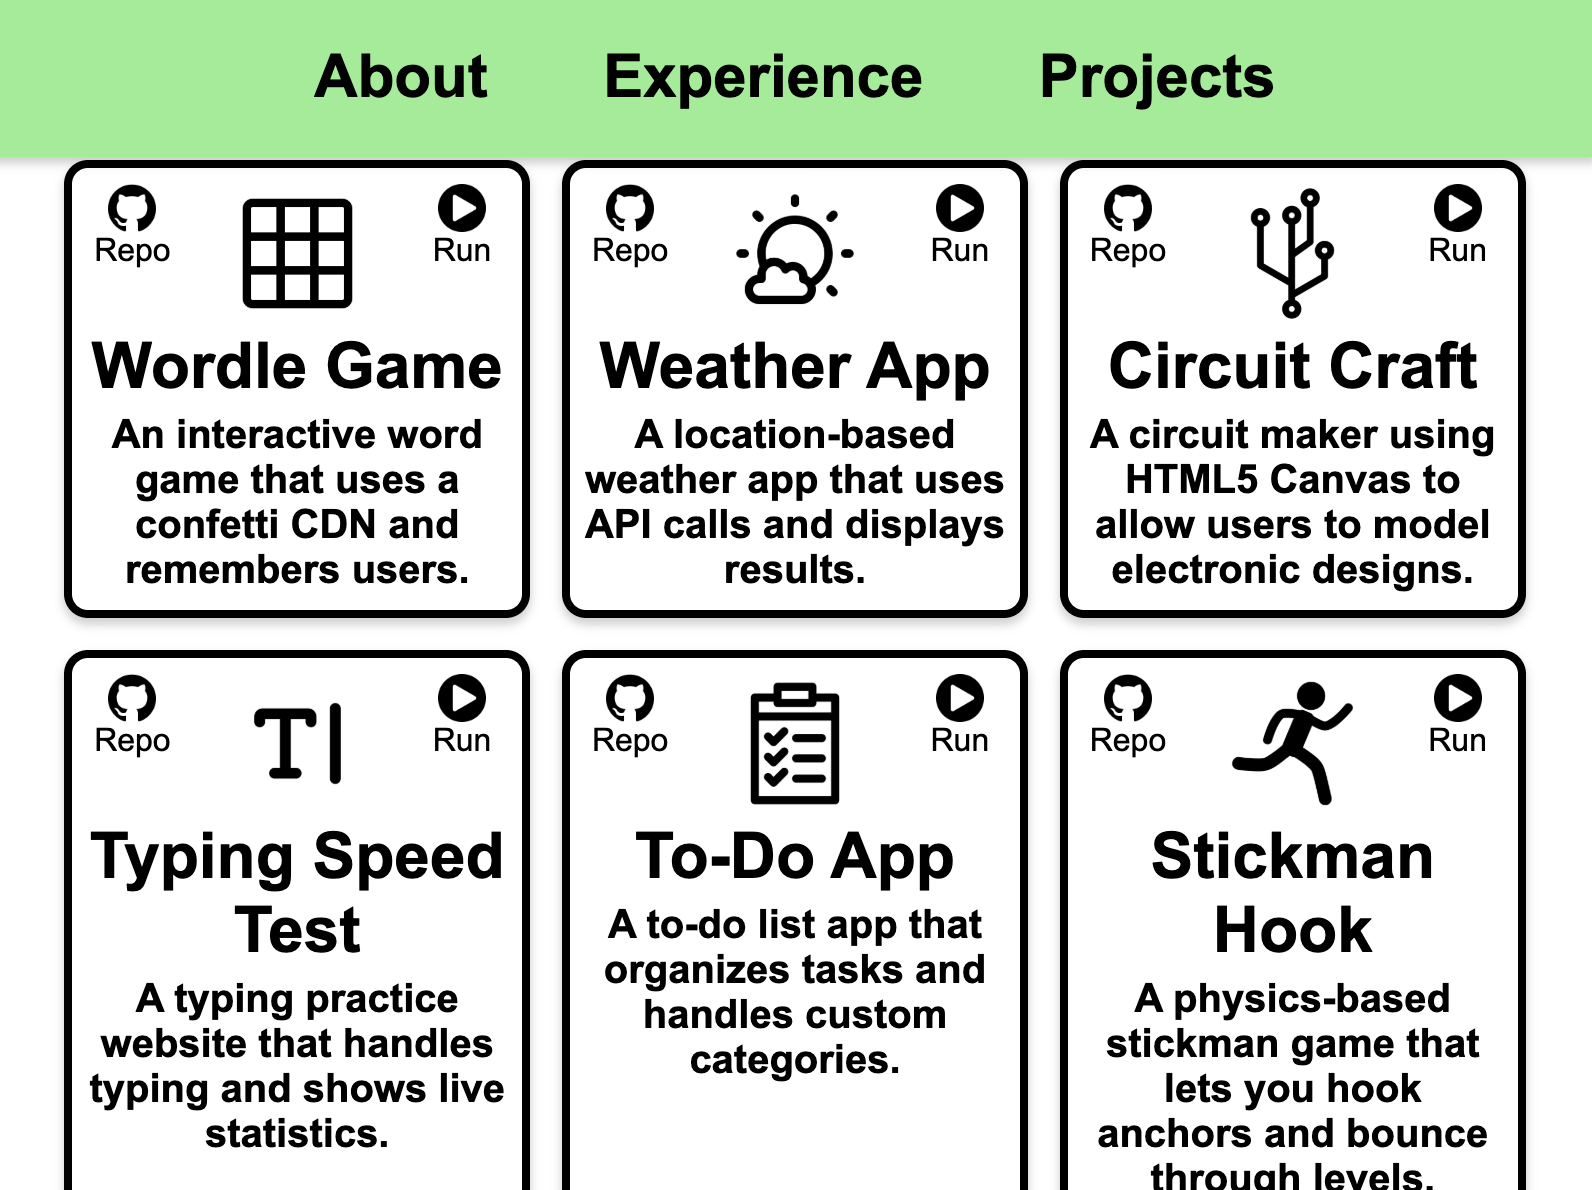
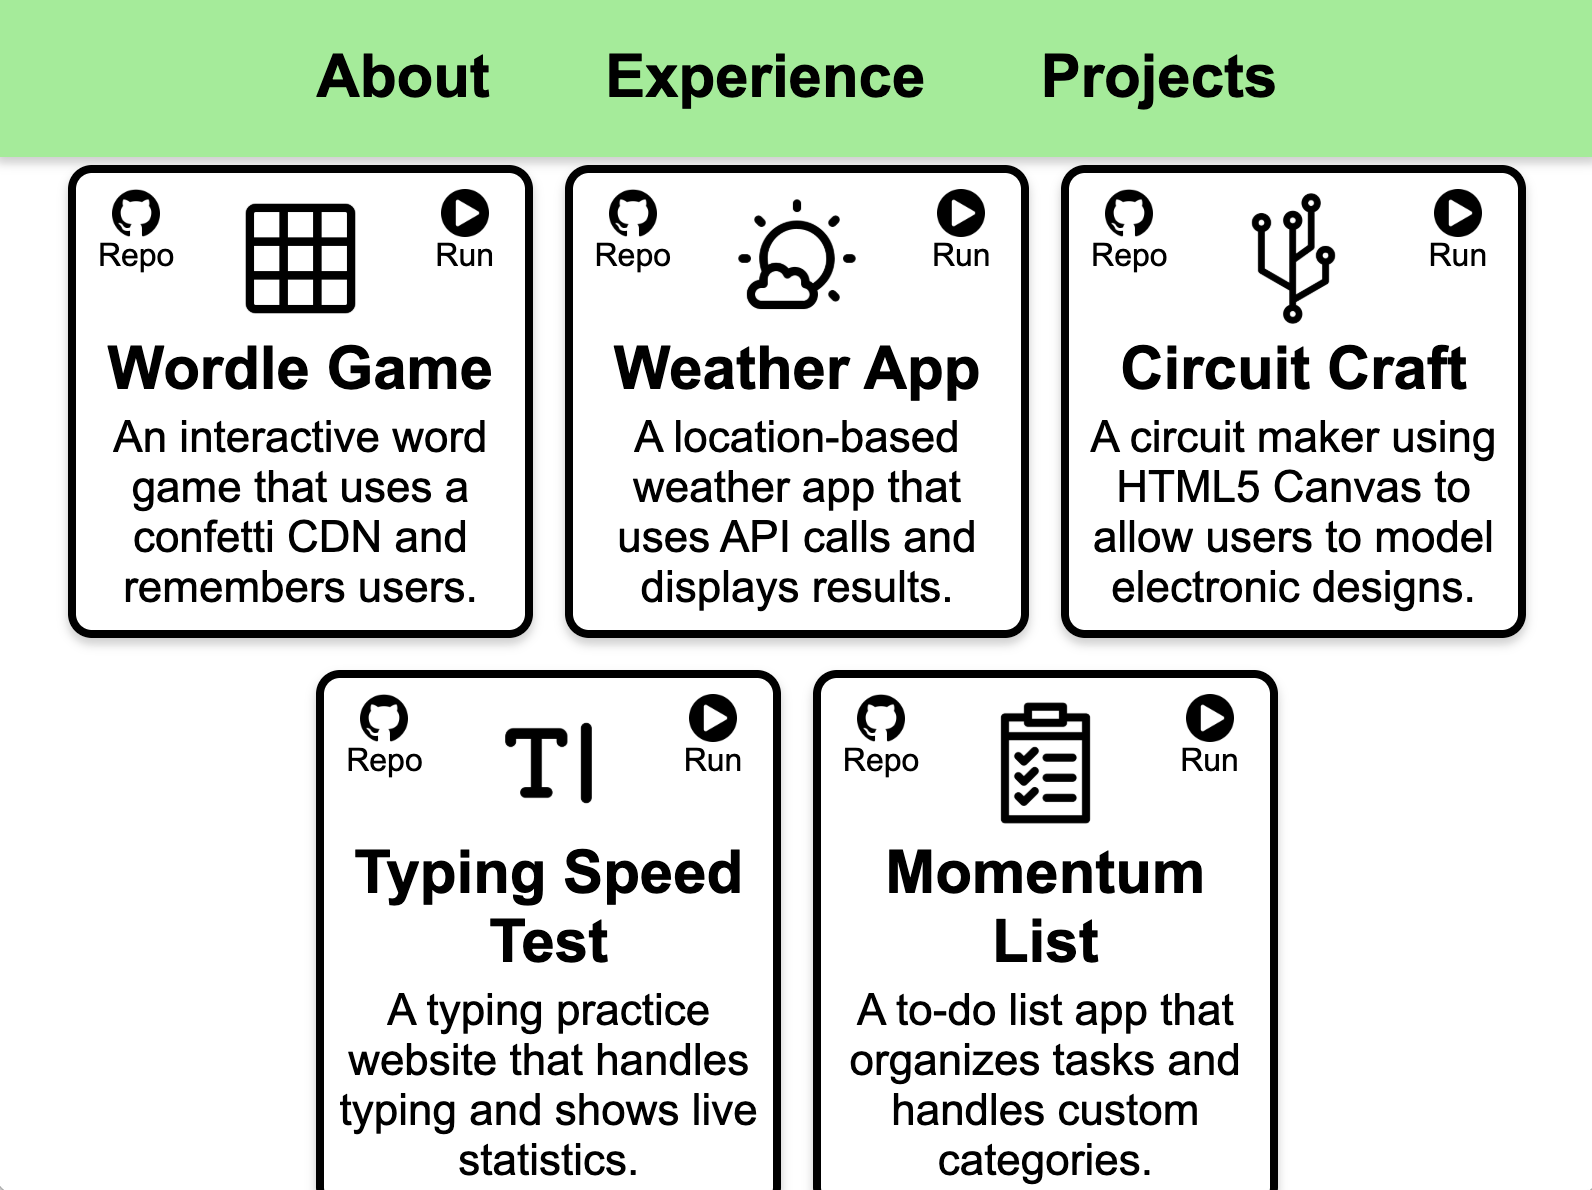
Update Screenshots

diff --git a/src/Projects.jsx b/src/Projects.jsx
@@ -123,13 +123,6 @@ const Projects = () => {
       text: "A to-do list app that organizes tasks and handles custom categories.",
       github_url: "",
       url: ""
-    },
-    {
-      image: "https://static.thenounproject.com/png/stickman-fast-running-icon-5232770-512.png",
-      title: "Stickman Hook",
-      text: "A physics-based stickman game that lets you hook anchors and bounce through levels.",
-      github_url: "",
-      url: ""
     }
   ];
 

diff --git a/README.md b/README.md
@@ -10,7 +10,7 @@ Built with React and Vite. HTML, CSS, and JavaScript are included.
 
 - Responsive design
 - Anchor links for smooth navigation
-- Github repo and quick view links to my other five projects
+- Github repo and quick view links to my other six projects
 - Screen reader accessibility
 
 ## Preview